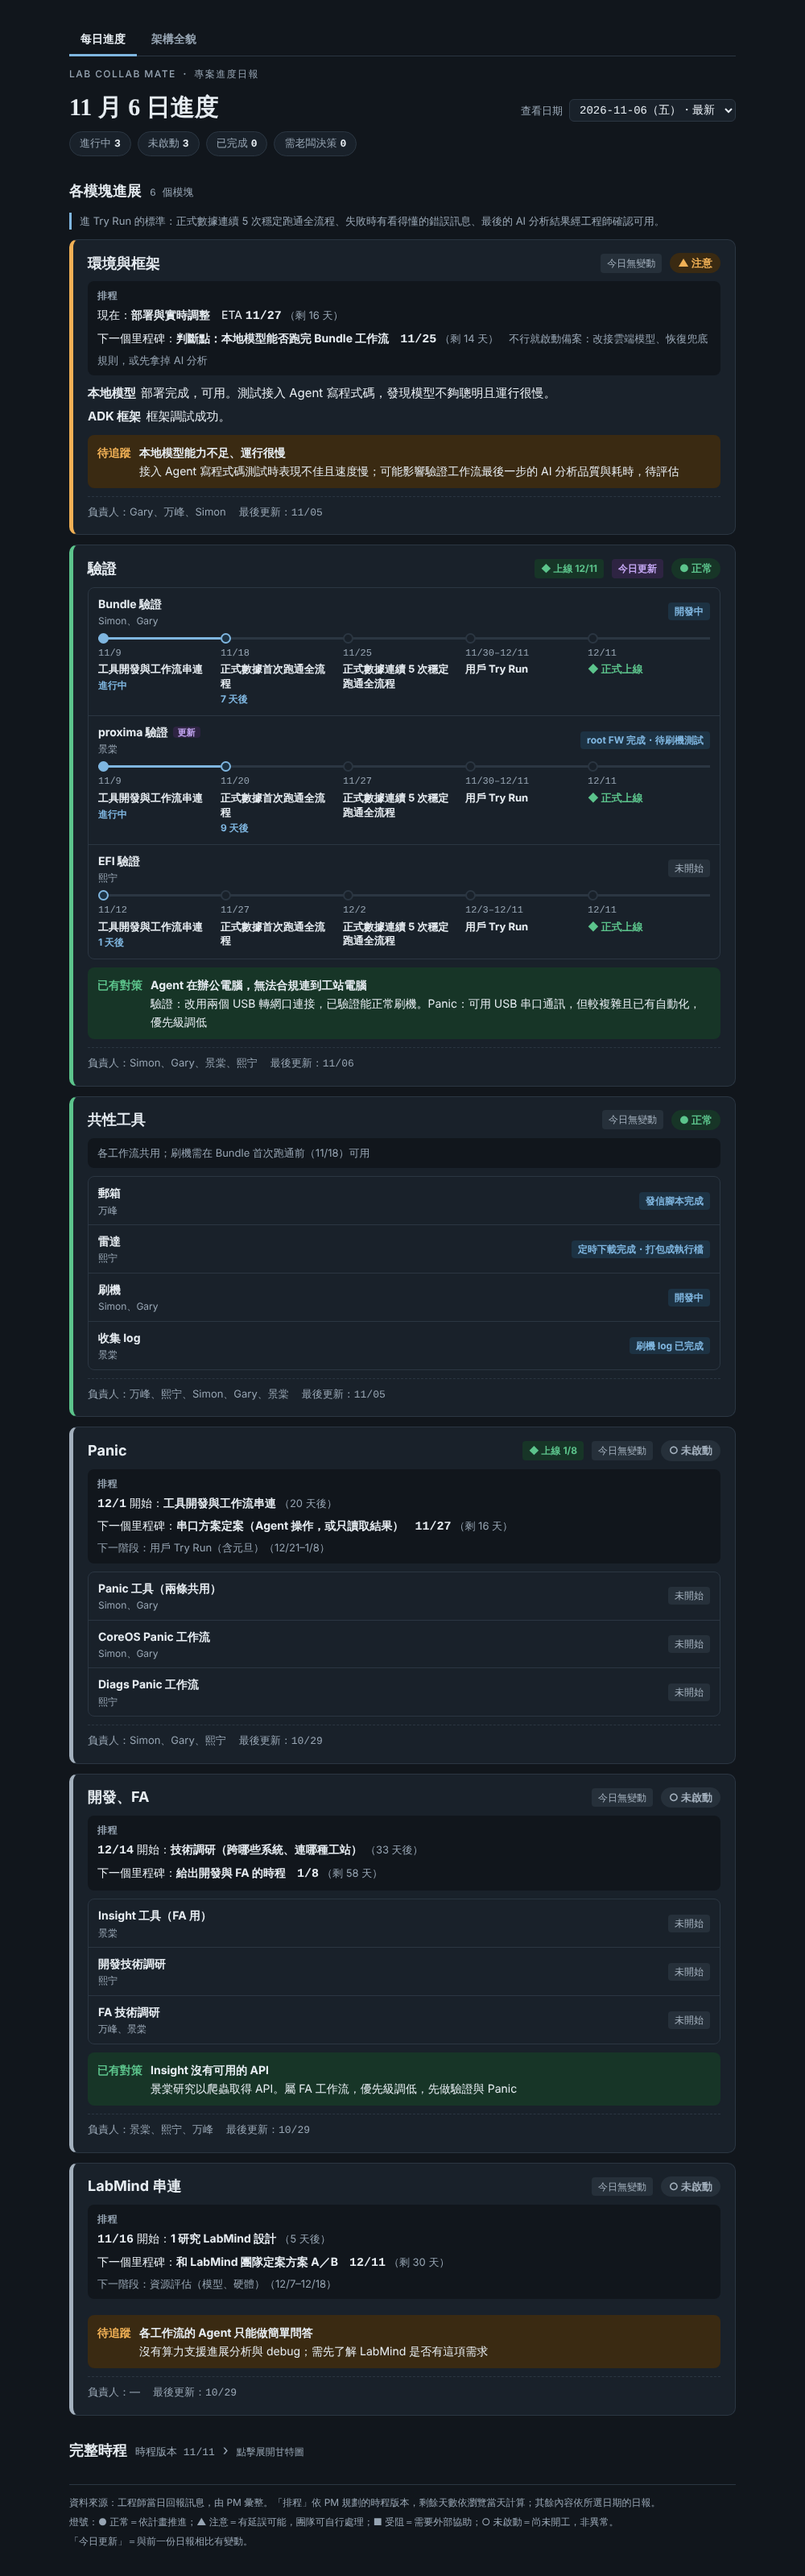
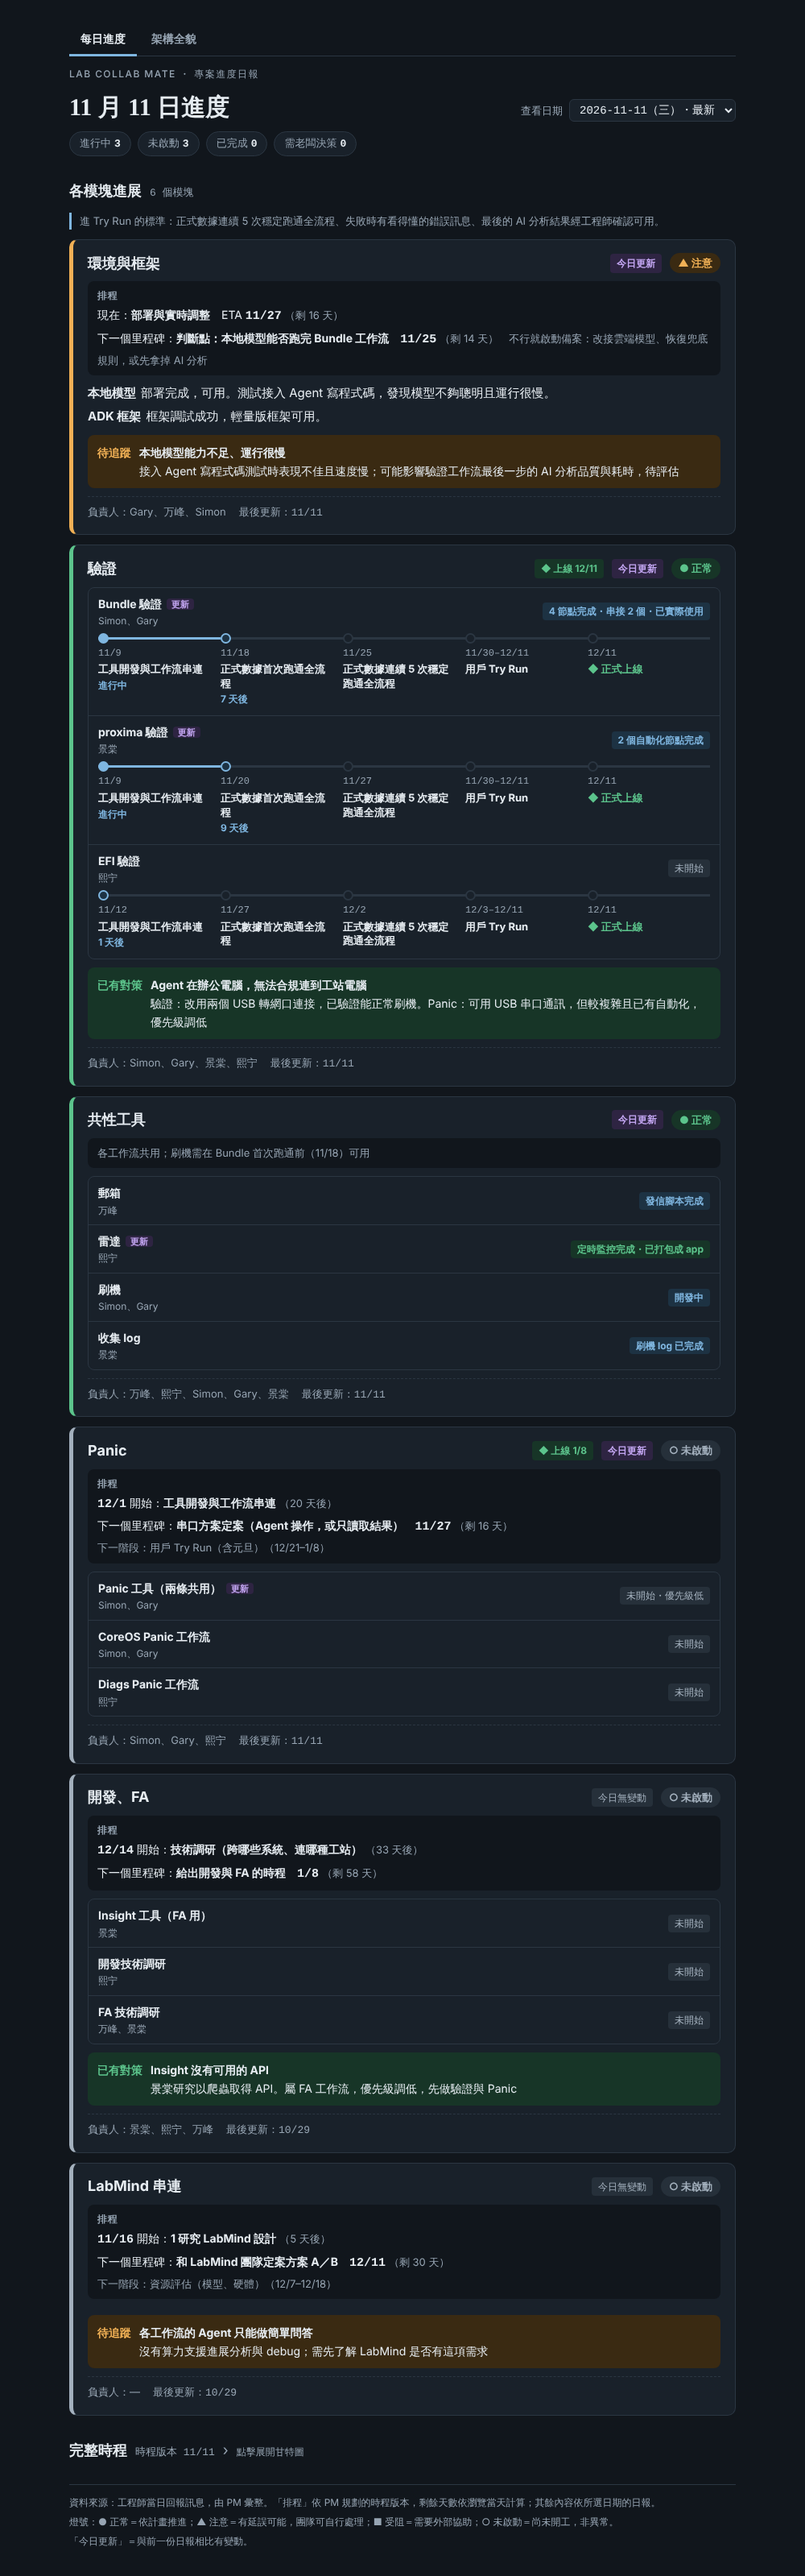
Add 2026-11-11 daily report
[2026-11-11_dashboard-schedule-and-arch-tab] 新增 11/11 日報並記錄

Claude-Session: https://claude.ai/code/session_01HY2PekBDQgaxvznQLxGhAu

diff --git a/public/index.html b/public/index.html
@@ -407,7 +407,25 @@ const d1106 = day(d1105, d => {
   d[3].items[2][2] = "root FW 完成・待刷機測試";
 });
 
+/* 11/11：本地模型回報「部署完成，可用」，與 11/05 相同、能力與速度風險未解除，維持不變 */
+const d1111 = day(d1106, d => {
+  Object.assign(d[1], {state:"輕量版框架可用", update:"框架調試成功，輕量版框架可用。"});
+  Object.assign(d[2], {state:"1 項完成・3 項進行中・2 項未開始",
+    update:"郵箱：發送郵件腳本開發完成。雷達：定時監控雷達功能已完成，已打包成 app。刷機：開發中。收集 log：已完成刷機 log 收集。Panic：未開始，優先級低。Insight：未開始。"});
+  d[2].items[1][2] = "定時監控完成・已打包成 app"; d[2].items[1][3] = "done";
+  d[2].items[3][2] = "未開始・優先級低";
+  Object.assign(d[3], {
+    update:"Bundle 驗證：開發中，已開發 4 個自動化節點，串接其中 2 個；串接的 2 個節點已在實際業務中正常使用。proxima 驗證：開發中，已開發 2 個自動化節點。EFI 驗證：本次未回報。"});
+  d[3].items[0][2] = "4 節點完成・串接 2 個・已實際使用";
+  d[3].items[2][2] = "2 個自動化節點完成";
+  Object.assign(d[4], {status:"green", state:"1 項進行中・2 項未開始", update:"Bundle 驗證：已串聯 2 個節點。EFI、proxima 本次未回報。"});
+  d[4].items[0] = ["Bundle 驗證工作流","Simon、Gary","已串聯 2 個節點","doing"];
+  Object.assign(d[5], {status:"green", state:"Bundle 部分節點試用中", update:"Bundle 驗證：串聯的 2 個節點已在實際業務中正常使用。EFI、proxima 本次未回報。"});
+  d[5].items[0] = ["Bundle 驗證（2 個節點）","Simon、Gary","可正常使用","doing"];
+});
+
 const REPORTS = [
+  {date:"2026-11-11", projects:d1111},
   {date:"2026-11-06", projects:d1106},
   {date:"2026-11-05", projects:d1105},
   {date:"2026-11-04", projects:d1104},

diff --git a/work/2026-11-11_dashboard-schedule-and-arch-tab/STATUS.md b/work/2026-11-11_dashboard-schedule-and-arch-tab/STATUS.md
@@ -1,6 +1,6 @@
 # 日報頁改版：模塊卡（時程＋進展合併）、可收合甘特圖、架構全貌分頁
 
-- **狀態**：已上線；驗證模塊關鍵步驟在分支，待確認後上線。
+- **狀態**：已上線（含 11/11 日報、驗證步驟條）。剩餘待確認事項見下方。
 - **開始**：2026-11-11
 - **最後更新**：2026-11-11
 - **交付物**
@@ -83,6 +83,11 @@
 7. 架構分頁方案 B 的標題仍是「待確認池」，架構頁已決議改名「承接池」，要不要一起改？
 
 ## 過程紀錄（由新到舊）
+
+### 2026-11-11（第十三段）
+- 收到 11/11 工程師進度回報，新增 11/11 日報（`d1111`）並上線。
+- 要點：ADK 輕量版框架可用；雷達定時監控完成並打包成 app；Bundle 已開發 4 個節點、串接 2 個，且這 2 個節點已在實際業務中正常使用；proxima 已開發 2 個節點；Panic 工具未開始、優先級低；EFI 本次未回報。
+- 本地模型只回報「部署完成，可用」，和 11/05 相同，能力與速度的風險沒有解除，維持 ▲ 注意、內容不變。
 
 ### 2026-11-11（第十二段）
 - 使用者指出步驟條第一個節點怪怪的：原本顯示區間 11/9–11/25，和後面的 11/18、11/25 重疊。改成只標開始日，並改為依「目前所在階段」標進行中。

diff --git a/work/INDEX.md b/work/INDEX.md
@@ -3,4 +3,4 @@
 | 任務 | 狀態 | 最後更新 | 主要交付 |
 |---|---|---|---|
 | [USB-Agent 架構對齊與第二階段規劃](2026-11-09_usb-agent-architecture-alignment/STATUS.md) | 進行中：第二階段方案 A／B 待和 LabMind 團隊確認 | 2026-11-11 | [架構全貌頁（Artifact）](https://claude.ai/artifact/Wk9NHkqSibfzZLJsXvhyRj)，原始檔在 `outputs/lcm-architecture.html` |
-| [日報頁改版：模塊卡、甘特圖、架構全貌分頁](2026-11-11_dashboard-schedule-and-arch-tab/STATUS.md) | 已上線；熙宁時間重疊、LabMind 資源評估負責人待決定 | 2026-11-11 | `public/index.html` 模塊卡＋甘特圖、`public/arch.html` |
+| [日報頁改版：模塊卡、甘特圖、架構全貌分頁](2026-11-11_dashboard-schedule-and-arch-tab/STATUS.md) | 已上線（含 11/11 日報）；熙宁時間重疊、LabMind 資源評估負責人待決定 | 2026-11-11 | `public/index.html` 模塊卡＋甘特圖、`public/arch.html` |
